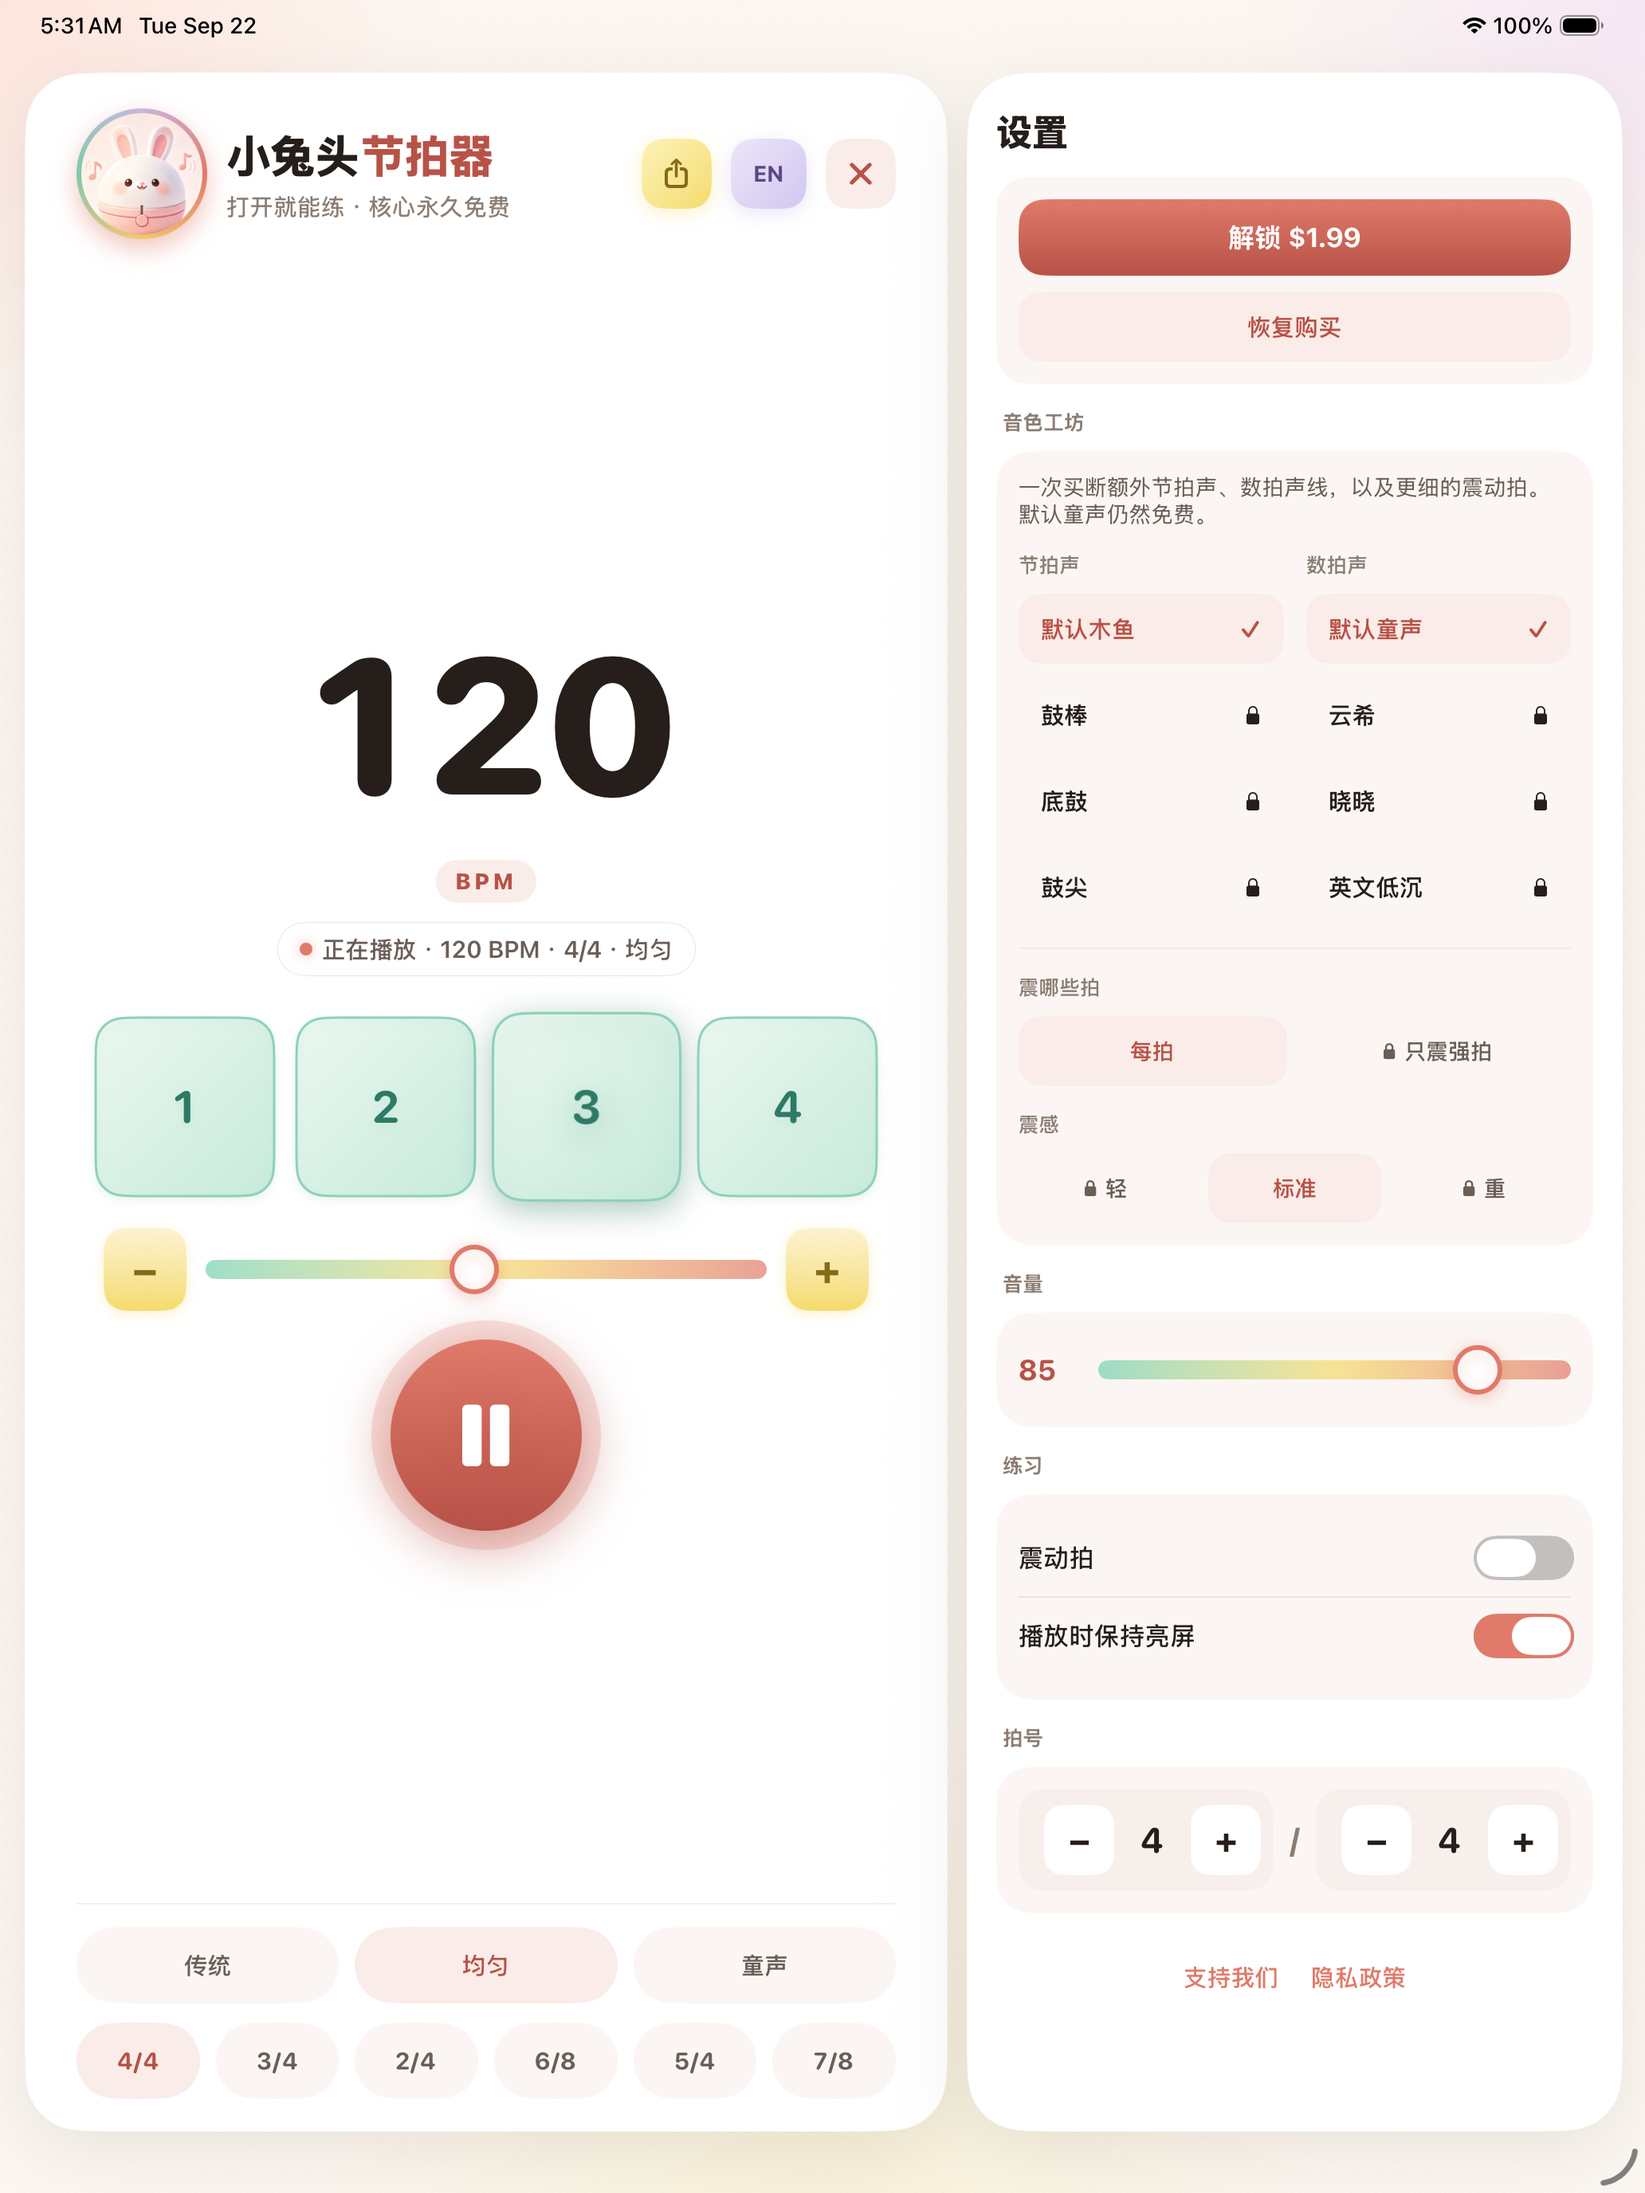
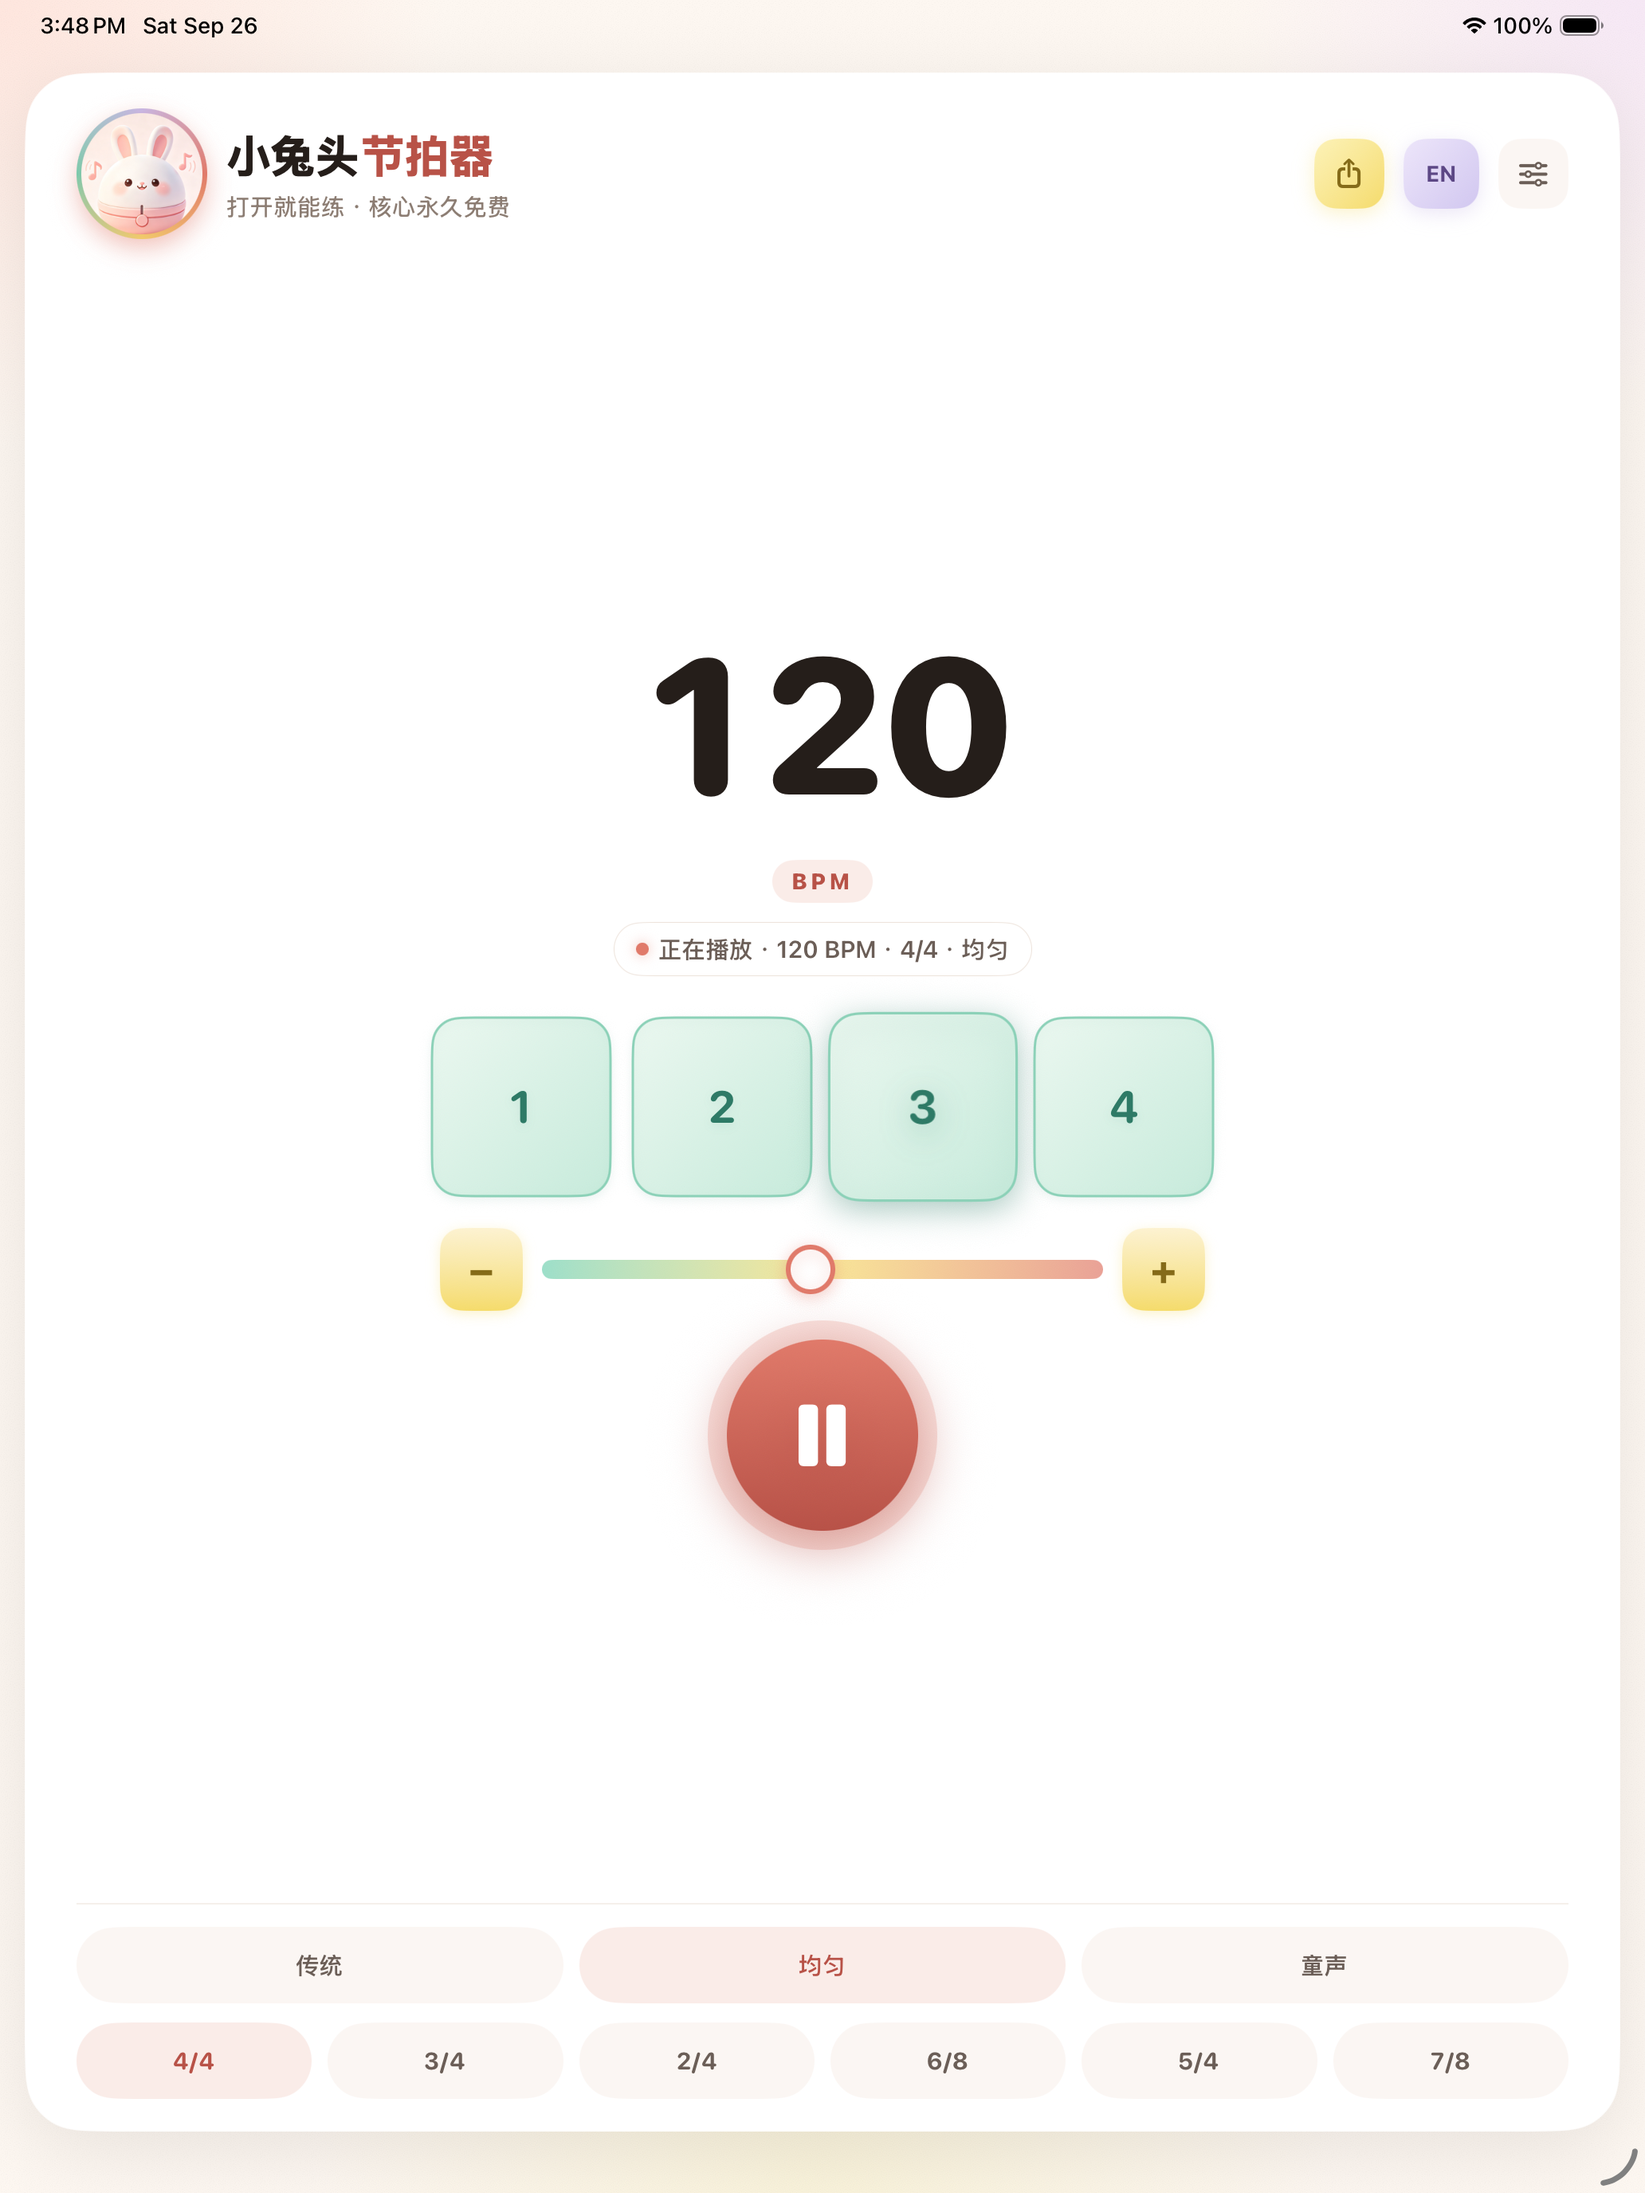
fix(ios): preserve narrow iPad layout and build 6 review assets

diff --git a/ios/BunnyMetronome/ContentView.swift b/ios/BunnyMetronome/ContentView.swift
@@ -52,6 +52,10 @@ struct ContentView: View {
 
     private var contentHPad: CGFloat { isWide ? 16 : 16 }
     private let inspectorWidth: CGFloat = 408
+    /// Regular widths below this (iPad Air 11" portrait ≈ 820pt) can't fit the
+    /// 408pt inspector beside the practice stage without clipping — stack instead.
+    /// iPad Pro 13" portrait (1032pt) and wider keep the split.
+    private let wideSplitMinWidth: CGFloat = 900
 
     private let meterPresets: [(Int, Int, String)] = [
         (4, 4, "sig_44"), (3, 4, "sig_34"), (2, 4, "sig_24"),
@@ -63,10 +67,14 @@ struct ContentView: View {
             background
             GeometryReader { geo in
                 if isWide {
-                    wideLayout
-                        .padding(.horizontal, contentHPad)
-                        .padding(.vertical, 14)
-                        .frame(width: geo.size.width, height: geo.size.height)
+                    if geo.size.width >= wideSplitMinWidth {
+                        wideLayout
+                            .padding(.horizontal, contentHPad)
+                            .padding(.vertical, 14)
+                            .frame(width: geo.size.width, height: geo.size.height)
+                    } else {
+                        wideStackLayout
+                    }
                 } else if #available(iOS 16.4, *) {
                     practiceScroll(height: geo.size.height)
                         .scrollBounceBehavior(.basedOnSize, axes: .vertical)
@@ -114,6 +122,37 @@ struct ContentView: View {
         }
         .animation(reduceMotion ? nil : .easeOut(duration: 0.22), value: inspectorVisible)
         .frame(maxWidth: .infinity, maxHeight: .infinity)
+    }
+
+    /// Narrow regular width (iPad Air 11" portrait ≈ 820pt): the fixed-width
+    /// inspector can't sit beside the stage without clipping either column.
+    /// Stack the practice stage above a full-width inspector inside one
+    /// vertical scroll — same inspector content, no horizontal squeeze.
+    private var wideStackLayout: some View {
+        ScrollView {
+            VStack(spacing: 14) {
+                practicePane
+                if inspectorVisible {
+                    VStack(alignment: .leading, spacing: 0) {
+                        inspectorHeader
+                        if !model.unlocked {
+                            InspectorUnlockBanner()
+                                .padding(.bottom, 16)
+                        }
+                        SettingsPanel(layout: .inspector)
+                            .padding(.bottom, 8)
+                    }
+                    .padding(.horizontal, 18)
+                    .padding(.top, 22)
+                    .padding(.bottom, 16)
+                    .frame(maxWidth: .infinity, alignment: .topLeading)
+                    .background(cardBackground)
+                }
+            }
+            .padding(.horizontal, contentHPad)
+            .padding(.vertical, 14)
+            .frame(maxWidth: .infinity)
+        }
     }
 
     /// iPad practice stage: vertical instrument layout that fills height —
@@ -173,17 +212,21 @@ struct ContentView: View {
         .accessibilityLabel(model.t("settings"))
     }
 
+    private var inspectorHeader: some View {
+        HStack {
+            Text(model.t("settings"))
+                .font(.system(size: 24, weight: .heavy, design: .rounded))
+                .foregroundStyle(Palette.ink)
+            Spacer(minLength: 0)
+        }
+        .padding(.bottom, 14)
+    }
+
     /// Full-height inspector. Workshop unlock sits above the scroll so the
     /// purchase CTA stays visible; banks / haptic / meter scroll underneath.
     private var settingsPane: some View {
         VStack(alignment: .leading, spacing: 0) {
-            HStack {
-                Text(model.t("settings"))
-                    .font(.system(size: 24, weight: .heavy, design: .rounded))
-                    .foregroundStyle(Palette.ink)
-                Spacer(minLength: 0)
-            }
-            .padding(.bottom, 14)
+            inspectorHeader
 
             if !model.unlocked {
                 InspectorUnlockBanner()

diff --git a/docs/store/README.md b/docs/store/README.md
@@ -3,13 +3,13 @@
 Bundle / application id: `studio.weichao.jpq`
 Name: 小兔头节拍器 / Bunny Metronome
 SKU: `studio.weichao.jpq.soundpack` (non-consumable, ¥12 / $1.99)
-Version: Android Play next upload `2.1.7` (versionCode 9). Current internal-test high is `2.1.6` (code 8), not this source. iOS `2.1.3` (build 5) — universal app (iPhone + iPad), needs both 6.9" and iPad 13" screenshots.
+Version: Android Play next upload `2.1.7` (versionCode 9). Current internal-test high is `2.1.6` (code 8), not this source. iOS `2.1.3` (build 6 submitted 2026-09-26; WAITING_FOR_REVIEW) — universal app (iPhone + iPad), needs both 6.9" and iPad 13" screenshots.
 
 提审当天把本节贴进 App Store Connect / Play Console。代码待办在 [AGENTS.md](../../AGENTS.md) P4。
 
 提审容易漏（不是文案）：
 
-- Connect 先签付费应用协议 + 税务 / 银行，否则 IAP 建不了。
+- Connect 先签付费应用协议 + 税务 / 银行，否则 IAP 无法正常销售。2026-09-26 新版 Business 接口复核：银行 `CLEARED`、美国 W‑8BEN 与 1042‑S `ACTIVE`、资格问卷 `COMPLETE`，付费应用协议 `AGREEMENT_IN_EFFECT`。旧协议接口仍报 `taxInfo.usTaxMissing`，与新版实际状态不一致；税表已经提交并关联当前协议，勿重复提交。
 - 第一个非消耗型 IAP 必须跟这一版 App **一起**送审。
 - 个人 Play 账号上**生产轨**要 12 名测试者连续 14 天封闭测试；内部测试轨不挡。
 - 商店链接在 Ready for Sale 之前不要改落地页徽章（N5.9）。
@@ -64,7 +64,7 @@ iPad 三帧（分栏布局）：
 
 1. `docs/store/screenshots/ipad-practice.png` — 默认分栏：练琴舞台 + 设置 inspector（解锁 + 恢复购买吸顶）
 2. `docs/store/screenshots/ipad-playing.png` — 正在播放（舞台暂停键 + 拍点高亮）
-3. `docs/store/screenshots/ipad-workshop.png` — inspector 滚到工坊（click / 数拍银行 + 震动选项）
+3. `docs/store/screenshots/ipad-workshop.png` — 工坊与 Restore（iPad 无震动马达，不展示震动选项）
 
 英文截图 = 上线应当，同一批帧。Play 不要用这套 iOS 图。
 
@@ -113,7 +113,7 @@ Core metronome is free. Default counting voice is free. Haptic ticks on/off is f
 
 ## App Store Connect 粘贴稿
 
-主语言 **简体中文**，再加 **English (US)**。类别 **Music**。**iPhone + iPad 通用**（工程 `TARGETED_DEVICE_FAMILY = "1,2"` + `UIRequiresFullScreen`，2026-09-22 起）。不要勾 Made for Kids（有 IAP）。版权 `2026 weichao.studio`。联系 `lazywc@gmail.com`。SKU（Connect 应用级，不是 IAP）`studio.weichao.jpq`。版本 `2.1.3` (build 5)。
+主语言 **简体中文**，再加 **English (US)**。类别 **Music**。**iPhone + iPad 通用**（工程 `TARGETED_DEVICE_FAMILY = "1,2"` + `UIRequiresFullScreen`，2026-09-22 起）。不要勾 Made for Kids（有 IAP）。版权 `2026 weichao.studio`。联系 `lazywc@gmail.com`。SKU（Connect 应用级，不是 IAP）`studio.weichao.jpq`。版本 `2.1.3` (build 6，已重提并等待审核)。
 
 ### 名称（≤30）/ 副标题（≤30）
 
@@ -169,7 +169,7 @@ metronome,tempo,BPM,piano,drums,voice,count,beat,practice
 
 锁屏、静音键下仍然出声。没有广告，不用注册。
 
-可选一次买断「音色工坊」，解锁额外 click、数拍声线，以及只震强拍 / 轻标准重震感。震动开关本身免费。购买记录保存在 App Store 账本里，换机或重装后用「恢复购买」找回。默认童声不需要买。
+可选一次买断「音色工坊」，解锁额外 click 和数拍声线；在有震动马达的设备上，还可选择只震强拍及轻 / 标准 / 重震感。震动开关本身免费。购买记录保存在 App Store 账本里，换机或重装后用「恢复购买」找回。默认童声不需要买。
 ```
 
 English：
@@ -181,7 +181,7 @@ Always free: play/pause, BPM 40–208, time signatures including custom, and the
 
 It keeps ticking with the silent switch on and on the lock screen. No ads, no account.
 
-Sound Workshop is an optional one-time unlock for extra clicks, voices, and finer haptic ticks. The haptic on/off switch stays free. Purchases are kept in your App Store account; use Restore Purchases after reinstalling. The default voice stays free.
+Sound Workshop is an optional one-time unlock for extra clicks and voices. On devices with haptic hardware, it also adds downbeat-only ticks and adjustable haptic feel. The haptic on/off switch stays free on supported devices. Purchases are kept in your App Store account; use Restore Purchases after reinstalling. The default voice stays free.
 ```
 
 文案写「在本平台一次买断」，不要写「买一次全平台」。
@@ -248,7 +248,7 @@ Connect 先签付费协议 + 税务/银行，否则建不了商品。
 无登录、无演示账号。联系 `lazywc@gmail.com`。电话你自己填。
 
 ```
-Core metronome is free. Default counting voice is free. Haptic ticks on/off is free. Sound Workshop (studio.weichao.jpq.soundpack) is a non-consumable that unlocks extra samples plus downbeat-only / light-standard-heavy haptics. Restore is in Settings. Purchases stay in the App Store ledger. No WeChat/Alipay QR codes in the app. iOS Firebase Analytics records in-app events (open, play, BPM, meter, mode). Advertising ID collection is off; we do not use the data for tracking or ads. Universal app (iPhone + iPad), portrait only. On iPad the app shows a practice stage plus a side settings inspector; all controls are reachable without cropping. Silent switch and lock screen should still click — AVAudioSession is .playback with UIBackgroundModes audio.
+Core metronome is free. Default counting voice is free. Haptic ticks on/off is free on supported devices. Sound Workshop (studio.weichao.jpq.soundpack) is a non-consumable that unlocks extra samples and, on devices with haptic hardware, downbeat-only / light-standard-heavy haptics. Restore is in Settings. Purchases stay in the App Store ledger. No WeChat/Alipay QR codes in the app. iOS Firebase Analytics records in-app events (open, play, BPM, meter, mode). Advertising ID collection is off; we do not use the data for tracking or ads. Universal app (iPhone + iPad), portrait only. On narrower iPads, the practice stage sits above a full-width scrollable Settings panel; wider iPads use a two-column layout. Silent switch and lock screen should still click — AVAudioSession is .playback with UIBackgroundModes audio.
 ```
 
 ### 你还得在本机做的
